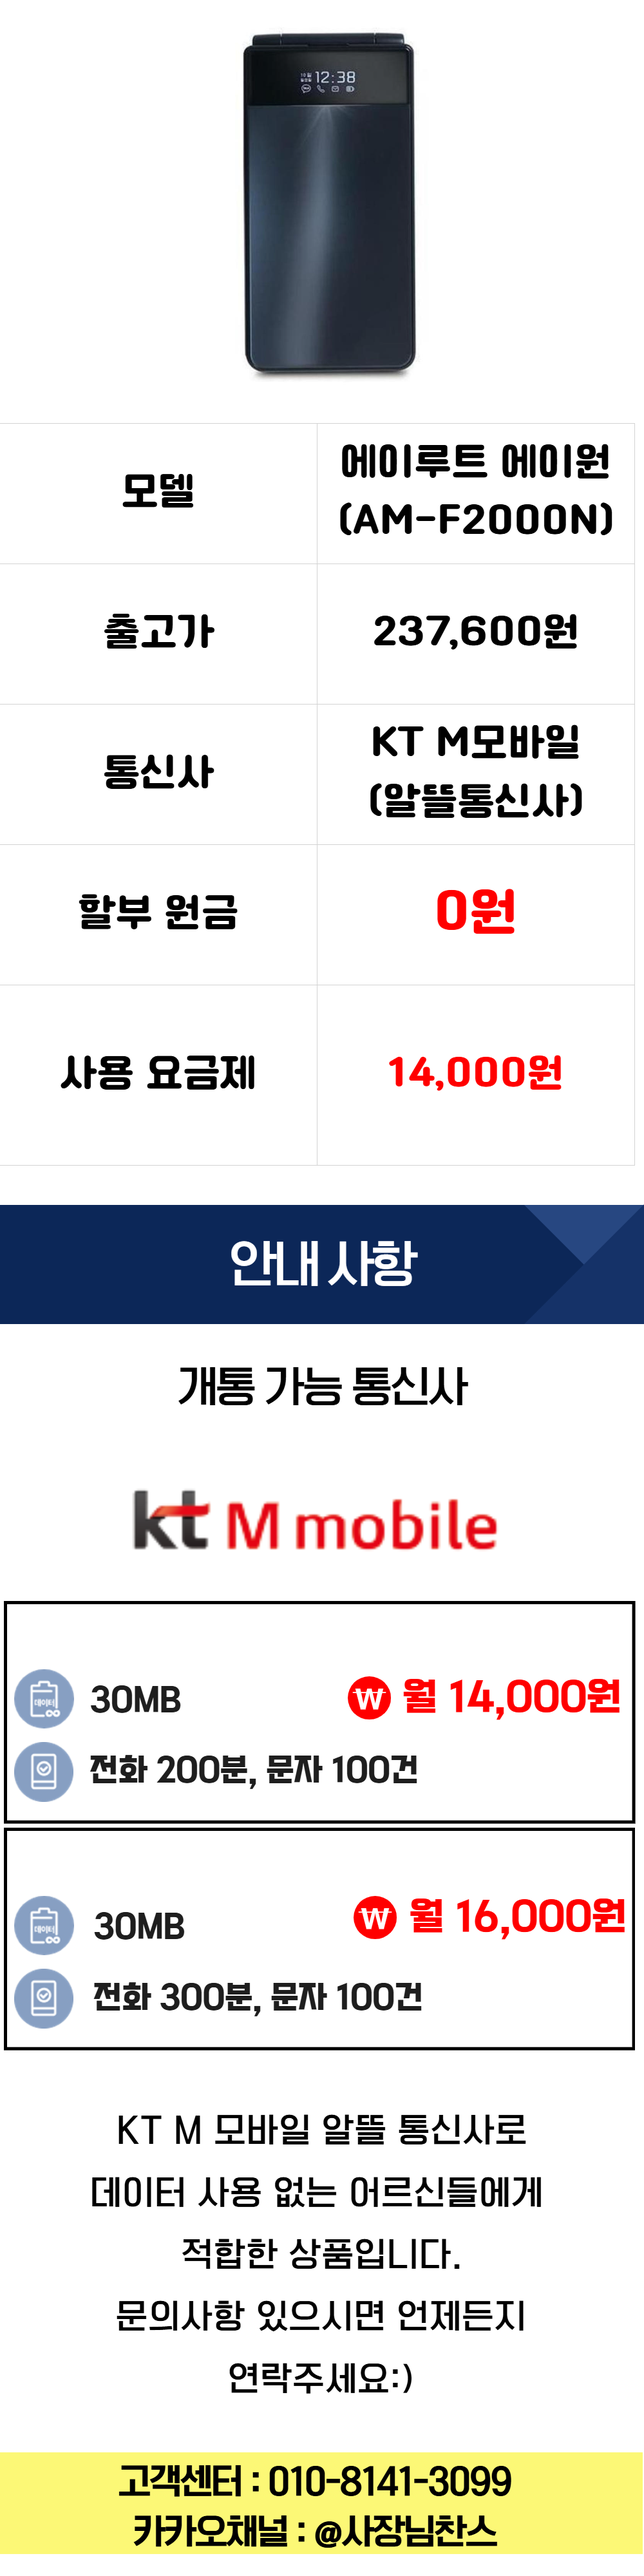
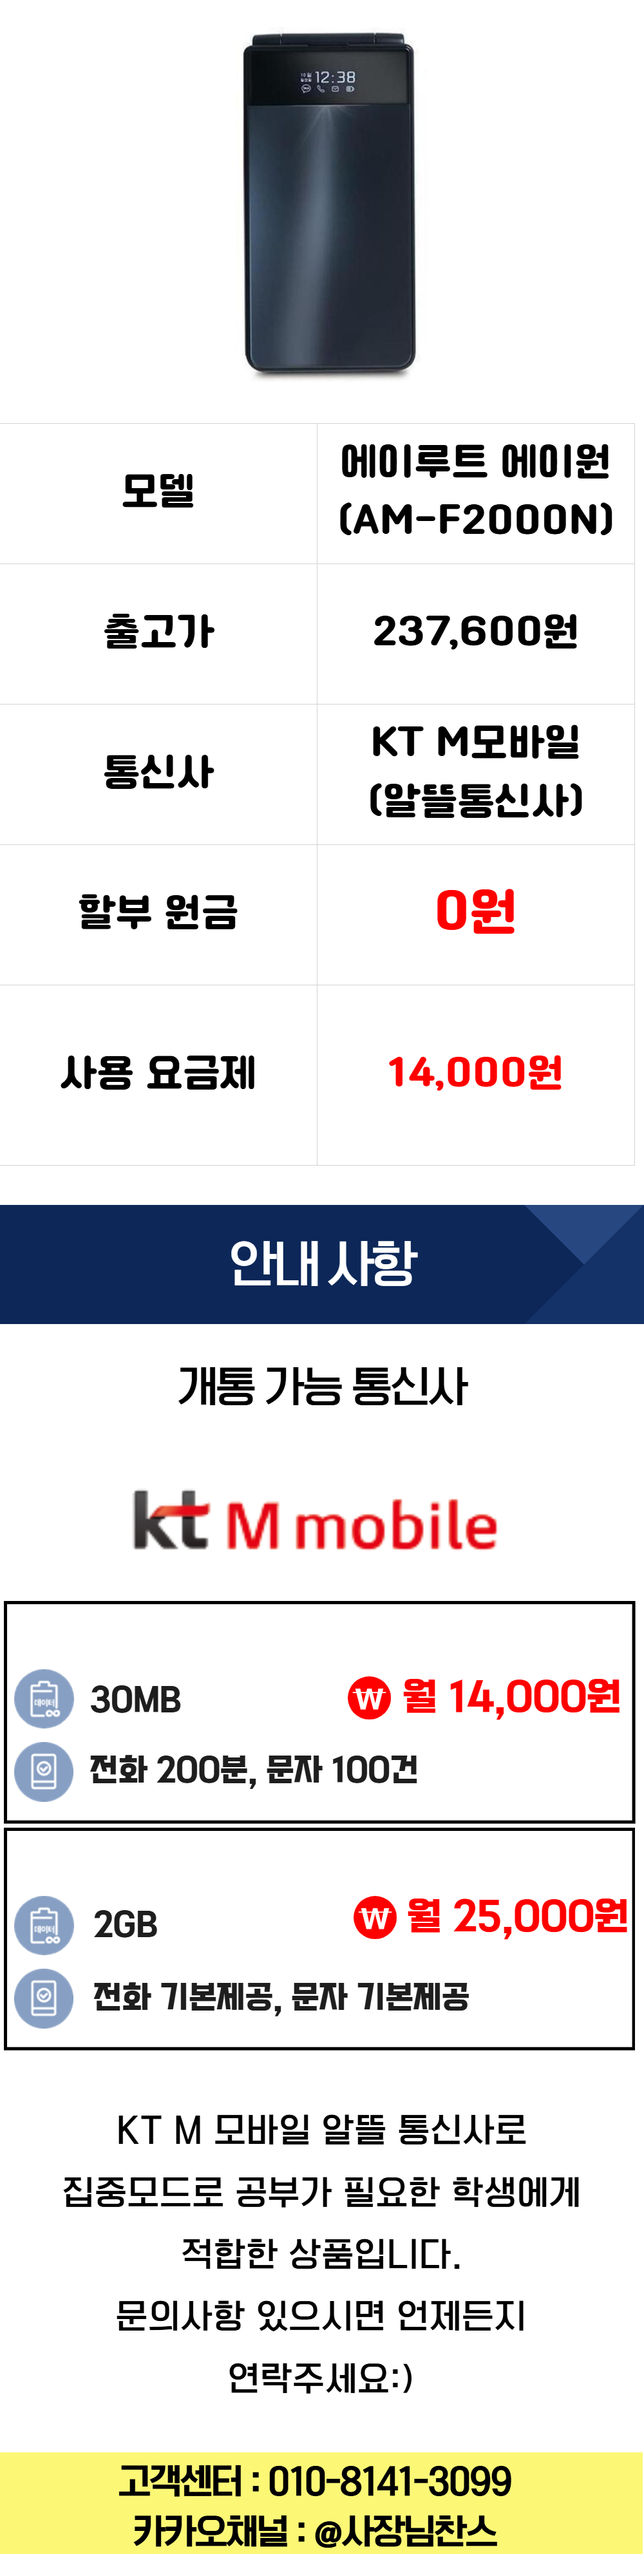
Update Aroot A1 detail page and SEO

Changed region(s): [[0.093, 0.8438, 0.899, 0.875], [0.155, 0.7188, 0.775, 0.7812], [0.806, 0.7188, 0.93, 0.75]]

diff --git a/app/phone/aroot-a1/page.tsx b/app/phone/aroot-a1/page.tsx
@@ -12,7 +12,7 @@ import { supabaseAdmin } from "@/lib/supabaseAdmin";
 export const dynamic = "force-dynamic";
 
 export const metadata: Metadata = {
-  title: "에이루트 에이원 AM-F2000N 폴더폰 | 사장님찬스",
+  title: "전화 문자만 가능한 공부폰 폴더폰 | 에이루트 에이원 AM-F2000N 키즈폰,학생폰,어르신폴더폰",
   description:
     "전화와 문자 중심으로 간편하게 사용할 수 있어 어르신용·효도폰으로 활용하기 좋은 에이루트 에이원 AM-F2000N 폴더폰입니다.",
   alternates: {
